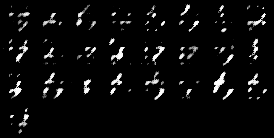
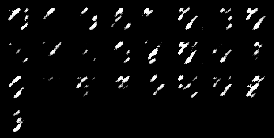
d

diff --git a/capsgan_hyperparam_search.py b/capsgan_hyperparam_search.py
@@ -24,7 +24,7 @@ opt = parser.parse_args()
 param_hyper=[[0.9],[0.1],[0.5],[0.005]]
 lr_hyper=[0.002]
 SN_hyper=[False]
-CAPS_bool=[True]
+CAPS_bool=[False]
 
 train_loader=get_data(batch_size=opt.b)
 
